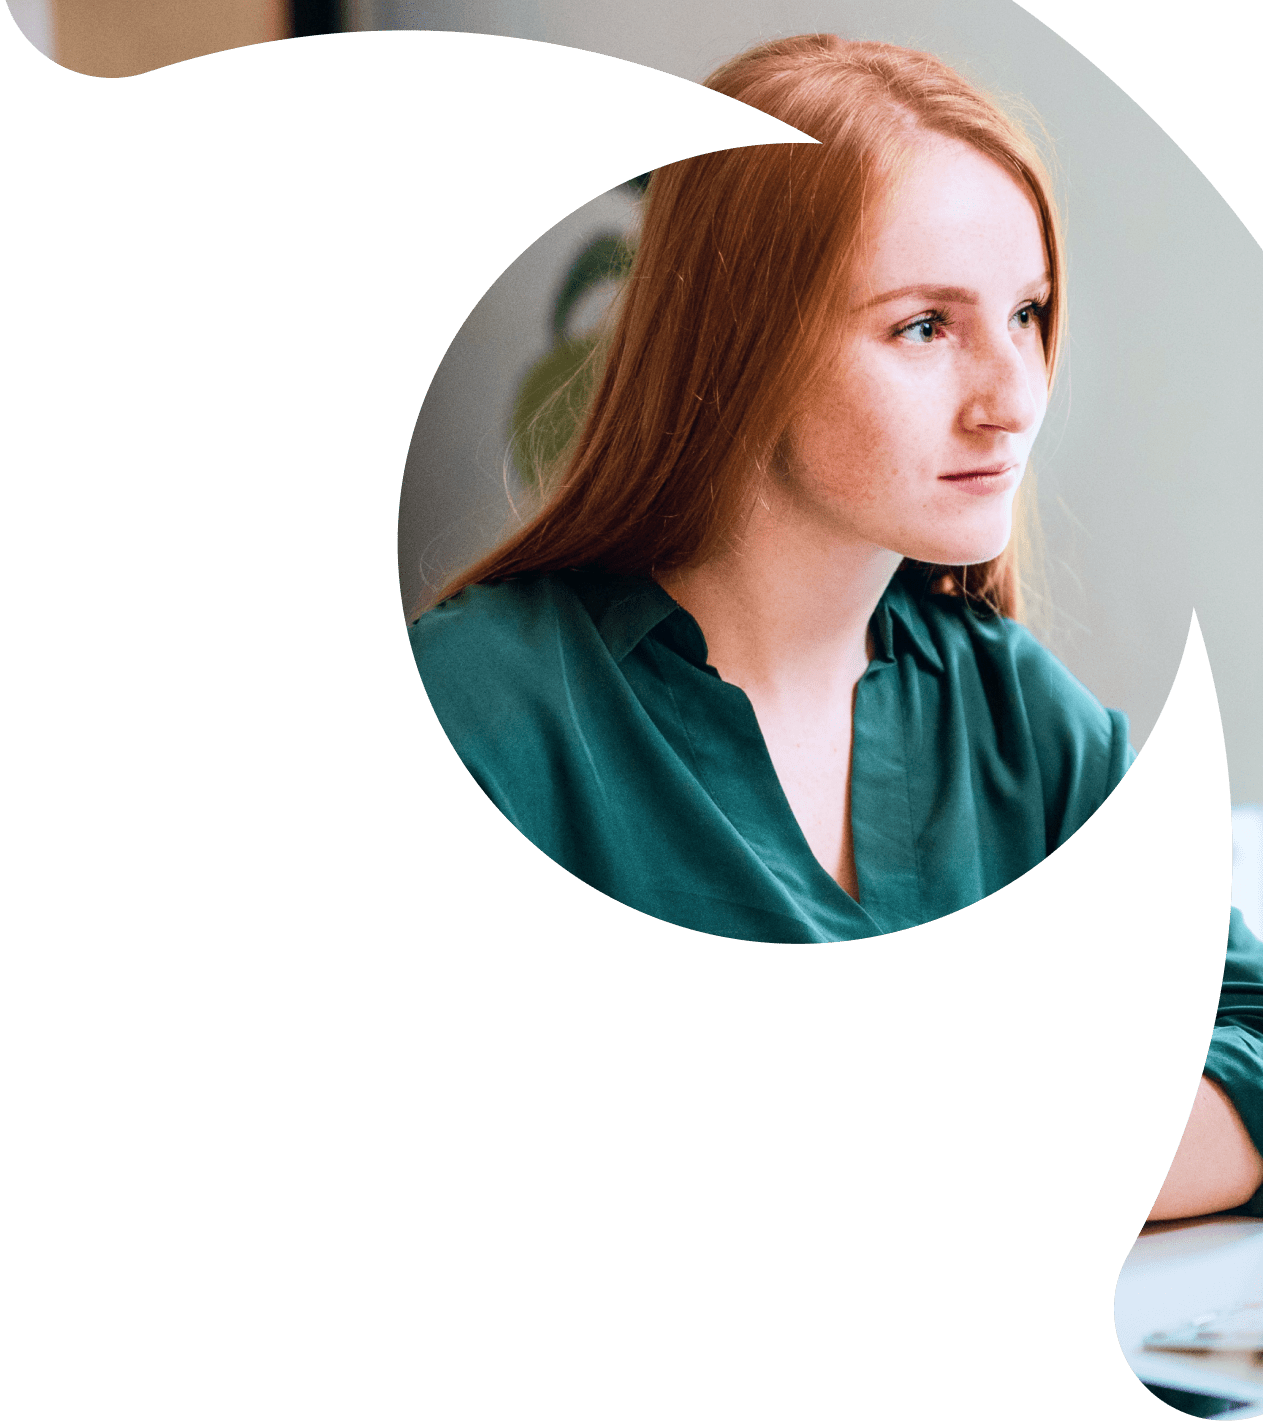
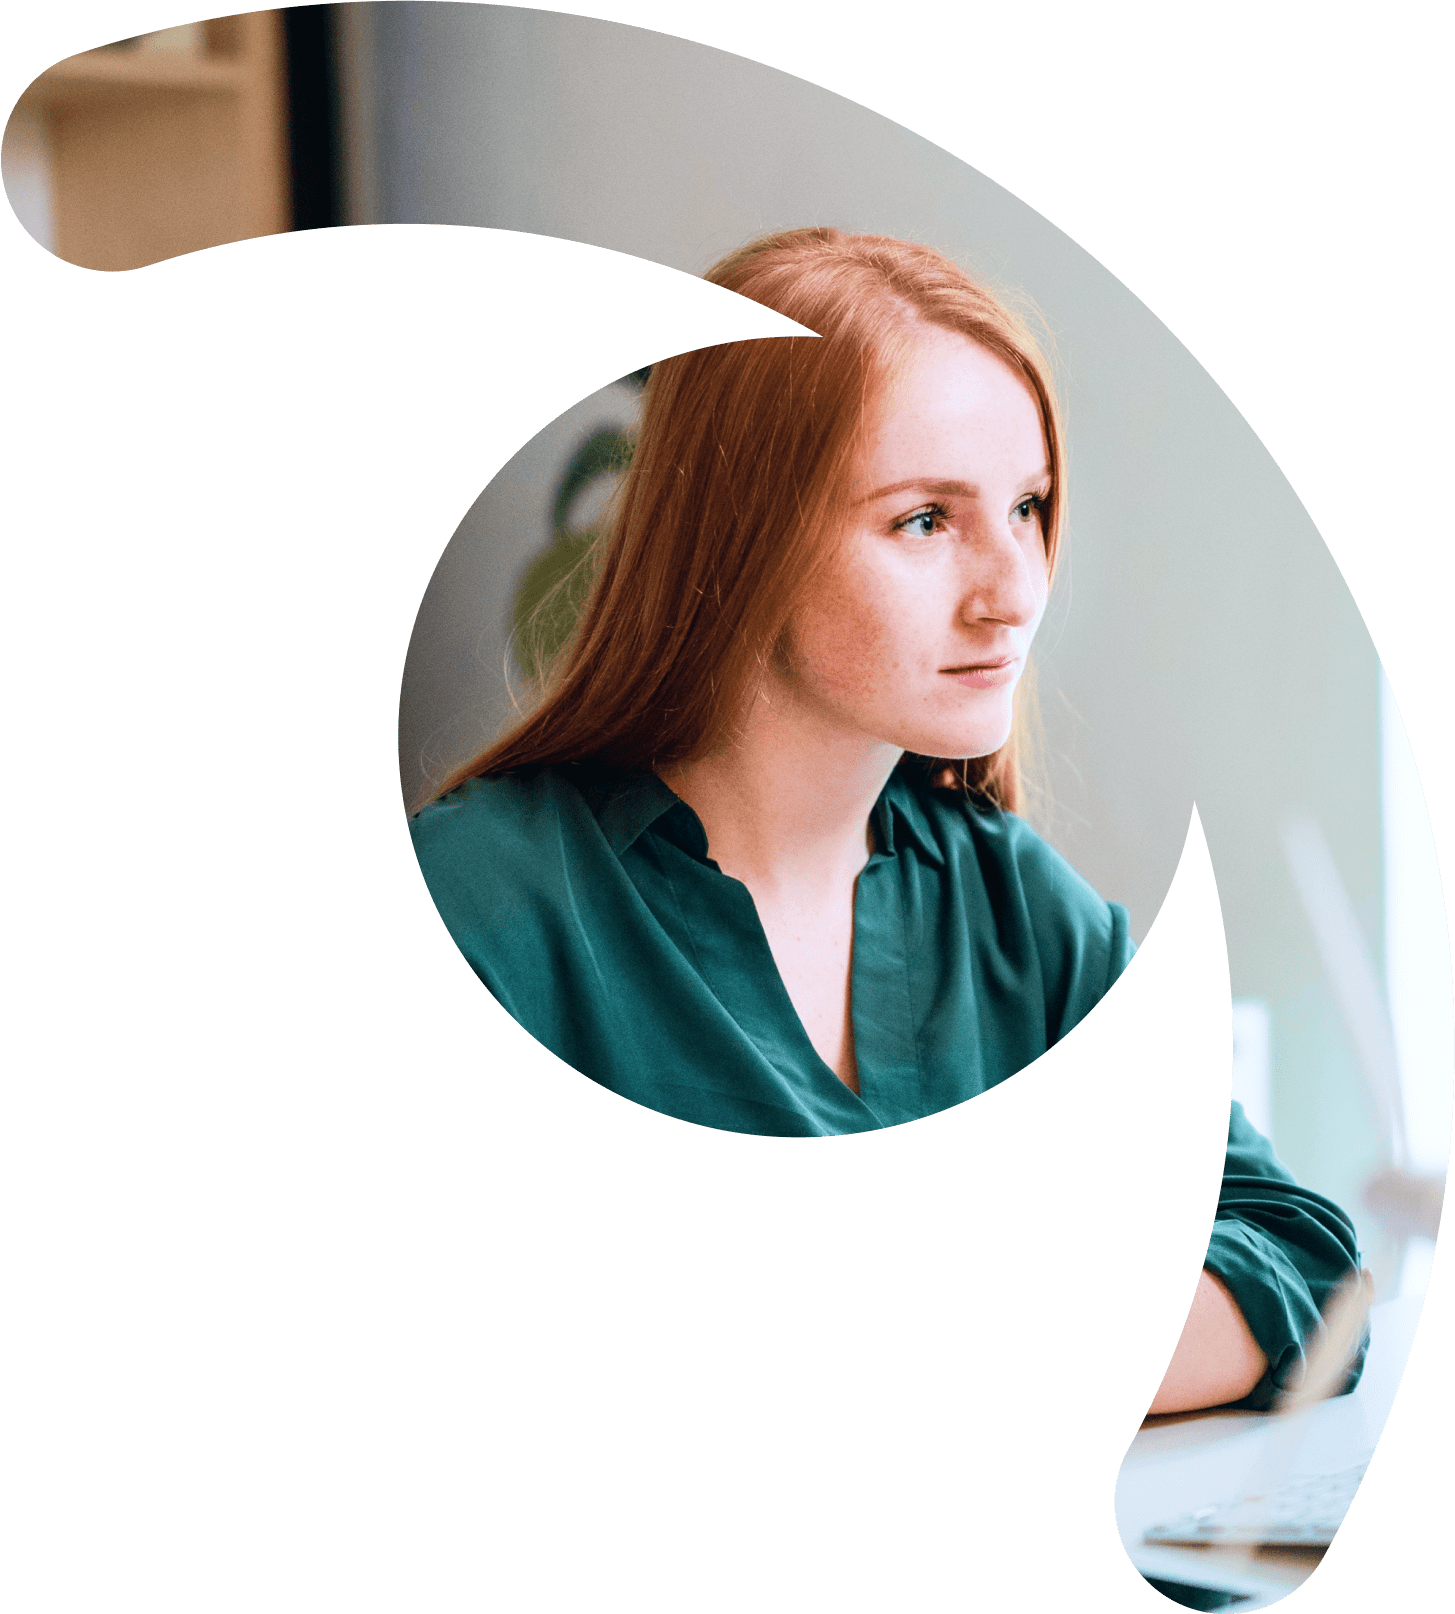
feat: update heros

diff --git a/src/view/shared/CorporateMeasure.jsx b/src/view/shared/CorporateMeasure.jsx
@@ -3,20 +3,12 @@ import {useTranslation} from 'react-i18next';
 import {NAMESPACE} from '../../data/constants';
 import {isHuddle} from '../../services/helper';
 
-import HuddleCorporateHero from '../../static/huddle/contract-hires.png';
-import HuddleDiversityHero from '../../static/huddle/contract-hires.png';
-import UnitasCorporateHero from '../../static/unitas/corporate.png';
-import UnitasDiversityHero from '../../static/unitas/corporate.png';
+import HuddleCorporateHero from '../../static/huddle/corporate-measure.png';
+import HuddleDiversityHero from '../../static/huddle/diversity-measure.png';
 
 const IMAGES = {
-  huddle: {
-    corporate: HuddleCorporateHero,
-    diversity: HuddleDiversityHero
-  },
-  unitas: {
-    corporate: UnitasCorporateHero,
-    diversity: UnitasDiversityHero
-  }
+  corporate: HuddleCorporateHero,
+  diversity: HuddleDiversityHero
 };
 
 const CorporateMeasure = ({type}) => {
@@ -28,7 +20,7 @@ const CorporateMeasure = ({type}) => {
         <div className='inner-container'>
           <div className='content'>
             {isHuddle && (
-              <img alt='hero-img' src={IMAGES[NAMESPACE][type]} />
+              <img alt='hero-img' src={IMAGES[type]} />
             )}
             <div className='title'>
               <h2>

diff --git a/src/styles/corporate_measure.scss b/src/styles/corporate_measure.scss
@@ -114,7 +114,7 @@
 .unitas-site {
     .corporate, .diversity {
         .corporate-measure {
-            background:  url('../static/unitas/corporate-measure.jpg') left no-repeat;
+            background:  url('../static/unitas/corporate-measure.jpg') right no-repeat;
             background-size: cover;
             margin-bottom: -1px;
 
@@ -167,13 +167,13 @@
         }
     }
 
-    //.diversity .corporate-measure {
-    //    background: url('../static/unitas/corporate-measure.jpg') left no-repeat;
-    //    background-size: cover;
-    //
-    //    @include media-breakpoint-down(md) {
-    //        background:  url('../static/unitas/permanent-hires-mob.jpg') top right no-repeat #3A84C9;
-    //        background-size: 85%;
-    //    }
-    //}
+    .diversity .corporate-measure {
+        background: url('../static/unitas/diversity-measure.jpg') right no-repeat;
+        background-size: cover;
+
+        @include media-breakpoint-down(md) {
+            background:  url('../static/unitas/permanent-hires-mob.jpg') top right no-repeat #3A84C9;
+            background-size: 85%;
+        }
+    }
 }

diff --git a/src/styles/leadership_hero.scss b/src/styles/leadership_hero.scss
@@ -300,12 +300,10 @@
 
 .corporate .leadership-hero {
     background-image: url('../static/huddle/corporate.png');
-    background-position: top right;
 }
 
 .diversity .leadership-hero {
     background-image: url('../static/huddle/diversity.png');
-    background-position: top right;
 }
 
 .work-for-us, .contact-us {
@@ -680,18 +678,8 @@
     .corporate,
     .diversity {
         .leadership-hero {
-            .text-container {
-                > img {
-                    position: absolute;
-                    left: 114.5%;
-                    top: -10rem;
-                    width: 40rem;
-                    z-index: -5;
-                }
-
-                h5 {
-                    color: #824554;
-                }
+            .text-container h5 {
+                color: #824554;
             }
 
             .title h1, .info-container h3 {

diff --git a/src/view/Diversity/index.jsx b/src/view/Diversity/index.jsx
@@ -7,7 +7,7 @@ import CorporateMeasure from '../shared/CorporateMeasure';
 import OurStory from '../shared/OurStory';
 import WorkForUs from '../shared/WorkForUs';
 
-import HeroImg from '../../static/unitas/corporate.png';
+import HeroImg from '../../static/unitas/diversity.png';
 
 const Diversity = () => (
   <div className='diversity'>
